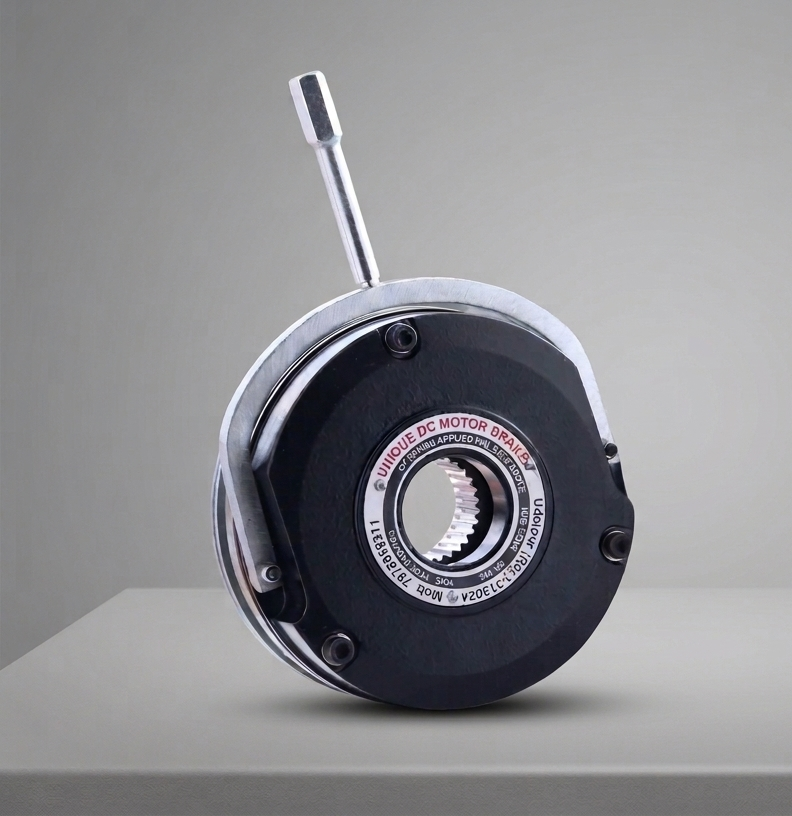
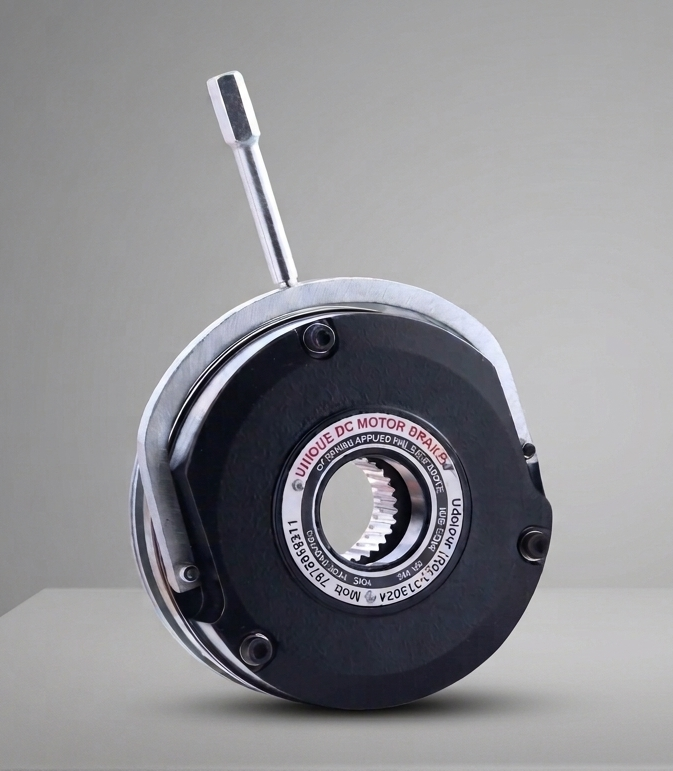
Added product pics

Changed region(s): [[0.0, 0.0623, 1.0, 1.0], [0.0, 0.7471, 0.0936, 0.8405]]

diff --git a/src/pages/About.tsx b/src/pages/About.tsx
@@ -5,18 +5,18 @@ import aboutImg from "../assets/Handle_Brake.jpg"; // Adjust path based on your 
 
 export default function About() {
   return (
-    <div className="pt-20">
+    <div className="pt-8">
       {/* Hero Section with Background Image */}
       <section
-        className="relative py-32 md:py-48 bg-slate-950 text-white overflow-hidden"
+        className="relative py-42 md:py-48 bg-slate-950 text-white overflow-hidden bg-left md:bg-right"
         style={{
           backgroundImage: `linear-gradient(to right,  rgba(2, 6, 23, 0.4)), url(${aboutImg})`,
           backgroundSize: "cover",
-          backgroundPosition: "right center",
+          // backgroundPosition: "right center",
         }}
       >
         {/* Red accent overlay */}
-        <div className="absolute top-0 right-0 w-1/3 h-full bg-brand-red/10 skew-x-12 translate-x-20" />
+        <div className="absolute top-0 right-0 w-1/3 h-full  skew-x-12 translate-x-20" />
 
         <div className="max-w-7xl mx-auto px-4 relative z-10">
           <motion.div
@@ -31,7 +31,7 @@ export default function About() {
               DECADE OF <br />
               EXCELLENCE.
             </h1>
-            <h2 className="text-brand-red font-bold uppercase tracking-widest text-xs mb-4">
+            <h2 className="text-yellow-400 font-bold uppercase tracking-widest text-xs mb-4">
               Our Legacy
             </h2>
             <p className="text-slate-200 text-lg leading-relaxed">
@@ -57,11 +57,11 @@ export default function About() {
               />
             </div>
             <div>
-              <h3 className="text-3xl font-bold mb-6 text-slate-900 tracking-tight">
+              <h3 className="text-3xl font-bold mb-6 text-yellow-500 tracking-tight">
                 Our Mission
               </h3>
               <p className="text-slate-600 leading-relaxed mb-8">
-                At <b>UNIQUE DC</b>, we design and manufacture high-performance
+                At <b className="text-yellow-500">UNIQUE DC</b>, we design and manufacture high-performance
                 motion control systems specifically engineered for heavy-duty
                 industrial applications. We understand that in demanding
                 environments-where immense force, precision, and zero-downtime
@@ -76,7 +76,7 @@ export default function About() {
               <div className="grid grid-cols-2 gap-8">
                 <div>
                   <h4 className="text-4xl font-bold text-slate-900 mb-2">
-                    500+
+                    250+
                   </h4>
                   <p className="text-slate-500 text-sm">Global Clients</p>
                 </div>

diff --git a/src/pages/Products.tsx b/src/pages/Products.tsx
@@ -10,12 +10,12 @@ import { downloadPDF } from "../lib/download";
 const products = [
   {
     id: 1,
-    name: "DC Motor Brake",
+    name: "DC MOTOR BRAKE",
     cat: "Electromagnetic",
-    torque: "200 Nm",
+    torque: "10 - 200 Nm",
     voltage: "440V DC",
-    image: "/images/Handle.png",
-    
+    image: "/images/SingleBrake.png",
+
   },
   {
     id: 2,
@@ -35,15 +35,15 @@ const products = [
   },
   {
     id: 4,
-    name: "ELECTROMAGNETIC BRAKES",
+    name: "COMBINATION",
     cat: "Hydraulic",
     torque: "800 Nm",
     voltage: "440V DC",
-    image: "/images/Brake_65.png",
+    image: "/images/Combination_Brake_2.png",
   },
   {
     id: 5,
-    name: "CLUTCH BRAKE COMBINATION",
+    name: "COMBINATION",
     cat: "Electromagnetic",
     torque: "1000 Nm",
     voltage: "440V DC",
@@ -51,11 +51,11 @@ const products = [
   },
   {
     id: 6,
-    name: "ALUMINUM LINERS",
+    name: "BRAKE",
     cat: "Disc Brakes",
     torque: "1200 Nm",
     voltage: "440V DC",
-    image: "/images/Liner.png",
+    image: "/images/Main_Brake_5.png",
   },
   {
     id: 7,
@@ -71,7 +71,7 @@ const products = [
     cat: "Custom Brakes",
     torque: "1600 Nm",
     voltage: "440V DC",
-    image: "/images/pro1.png",
+    image: "/images/BrakeMotor2.png",
   },
   {
     id: 9,
@@ -91,11 +91,11 @@ const products = [
   },
   {
     id: 11,
-    name: "FRICTION PLATES",
+    name: "COIL BRAKE",
     cat: "Electromagnetic",
     torque: "1400 Nm",
     voltage: "440V DC",
-    image: "/images/Rectiffier.png",
+    image: "/images/CoilBrake.png",
   },
   {
     id: 12,
@@ -103,7 +103,7 @@ const products = [
     cat: "Custom Brakes",
     torque: "1600 Nm",
     voltage: "440V DC",
-    image: "/images/pro1.png",
+    image: "/images/Accessories.png",
   },
 ];
 

diff --git a/src/pages/Contact.tsx b/src/pages/Contact.tsx
@@ -48,7 +48,7 @@ export default function Contact() {
   return (
     <div className="pt-5">
       {/* Hero Section */}
-      <section className="relative bg-slate-950 py-28 md:py-32 text-white overflow-hidden">
+      <section className="relative bg-slate-950 py-28 md:py-22 text-white overflow-hidden">
         {/* Background Pattern */}
         <div className="absolute inset-0 opacity-10">
           <div className="absolute inset-0 bg-[radial-gradient(circle_at_30%_20%,_rgba(248,113,113,0.3),_transparent_50%)]" />
@@ -87,7 +87,7 @@ export default function Contact() {
 
             <div className="flex flex-col sm:flex-row gap-4 justify-center">
               <motion.a
-                href="tel:+917976958311"
+                href="tel:+918233268311"
                 whileHover={{ scale: 1.05 }}
                 whileTap={{ scale: 0.95 }}
                 className="inline-flex items-center text-metallic-red gap-3 px-8 py-4 text-white font-bold uppercase tracking-widest rounded-full shadow-lg shadow-brand-red/25 hover:shadow-sm hover:shadow-brand-yellow/30 transition-all"

diff --git a/src/components/Layout.tsx b/src/components/Layout.tsx
@@ -428,16 +428,16 @@ export const Footer = () => {
             <div className="flex gap-3 w-full sm:w-auto justify-center">
               <div
                 style={{
-                  backgroundColor: theme.blue,
-                  boxShadow: `0 4px 14px ${theme.blue}1a`,
+                  backgroundColor: theme.logoYellow,
+                  boxShadow: `0 4px 14px ${theme.logoYellow}1a`,
                 }}
                 className="flex-1 sm:flex-none px-5 py-2  text-white text-[10px] font-black uppercase tracking-[0.2em] text-center whitespace-nowrap"
               >
                 ISO 9001:2015
               </div>
               <div style={{
-                  backgroundColor: theme.blue,
-                  boxShadow: `0 4px 14px ${theme.blue}1a`,
+                  backgroundColor: theme.logoYellow,
+                  boxShadow: `0 4px 14px ${theme.logoYellow}1a`,
                 }}
               
               className="flex-1 sm:flex-none px-5 py-2  text-white text-[10px] font-black uppercase tracking-[0.2em] text-center whitespace-nowrap">

diff --git a/src/index.css b/src/index.css
@@ -20,7 +20,7 @@
   }
 
   .bg-metallic-red {
-    background: linear-gradient(135deg, #fcd538 0%, #4ee1f4 80%, #f8d340 100%);
+    background: linear-gradient(90deg, #00f7ff97 0%, #e7ea60 80%, #5dbdc1 100%);
     background-size: 200% auto;
     animation: shine 3s linear infinite;
   }

diff --git a/src/pages/ProductDetails.tsx b/src/pages/ProductDetails.tsx
@@ -10,7 +10,7 @@ const products = [
     cat: "Electromagnetic",
     torque: "200 Nm",
     voltage: "440V DC",
-    image: "/images/Handle.png",
+    image: "/images/SingleBrake.png",
   },
   {
     id: 2,
